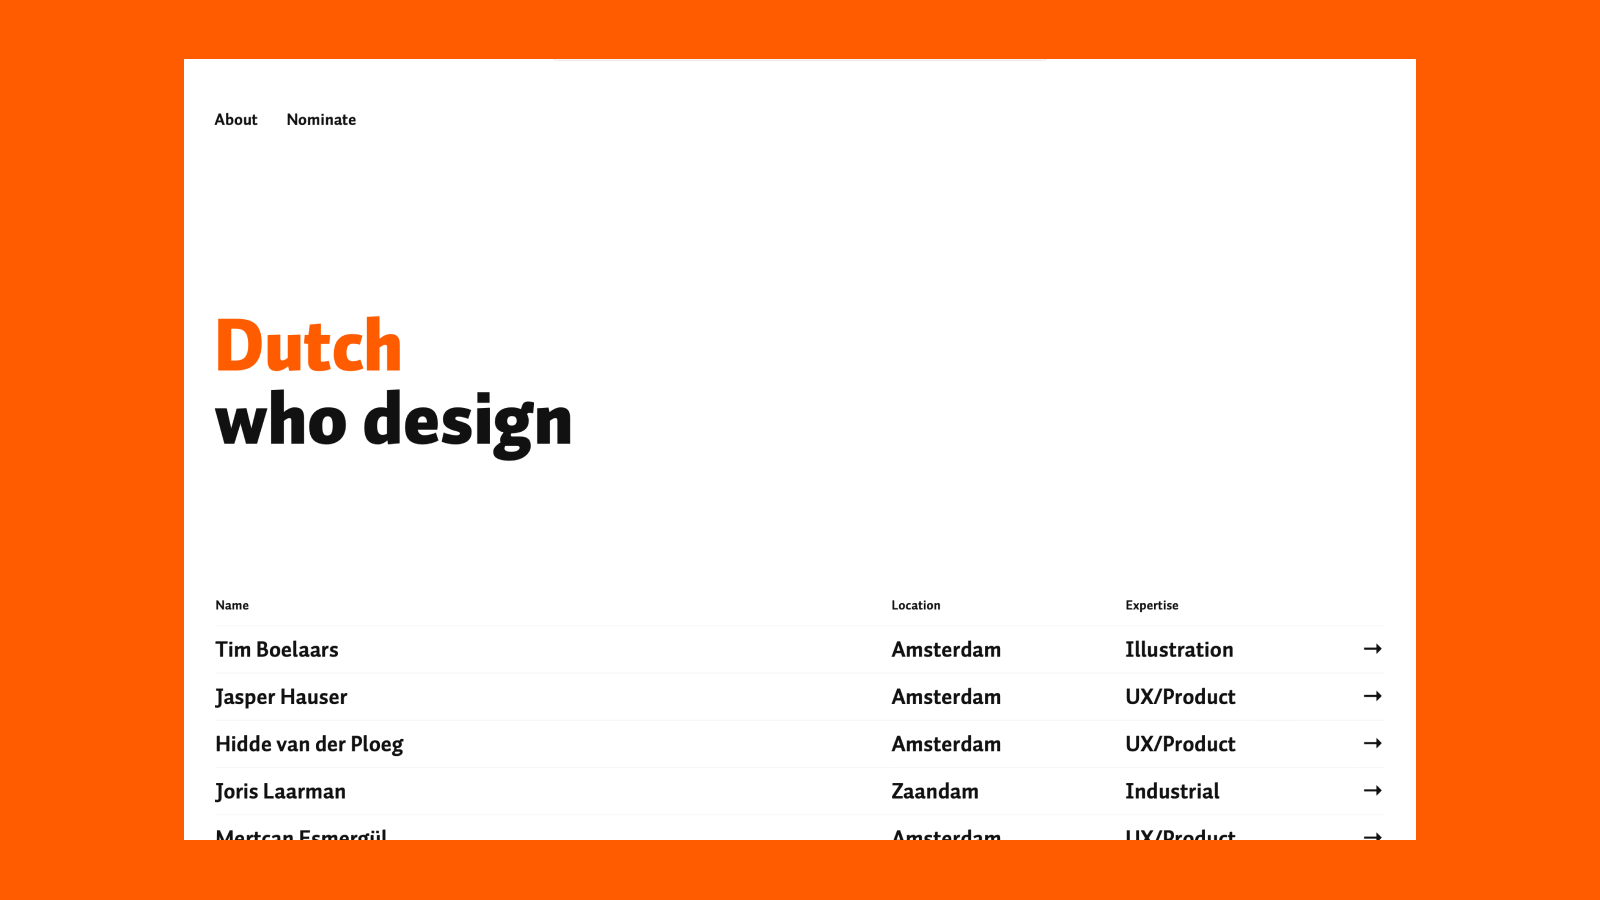
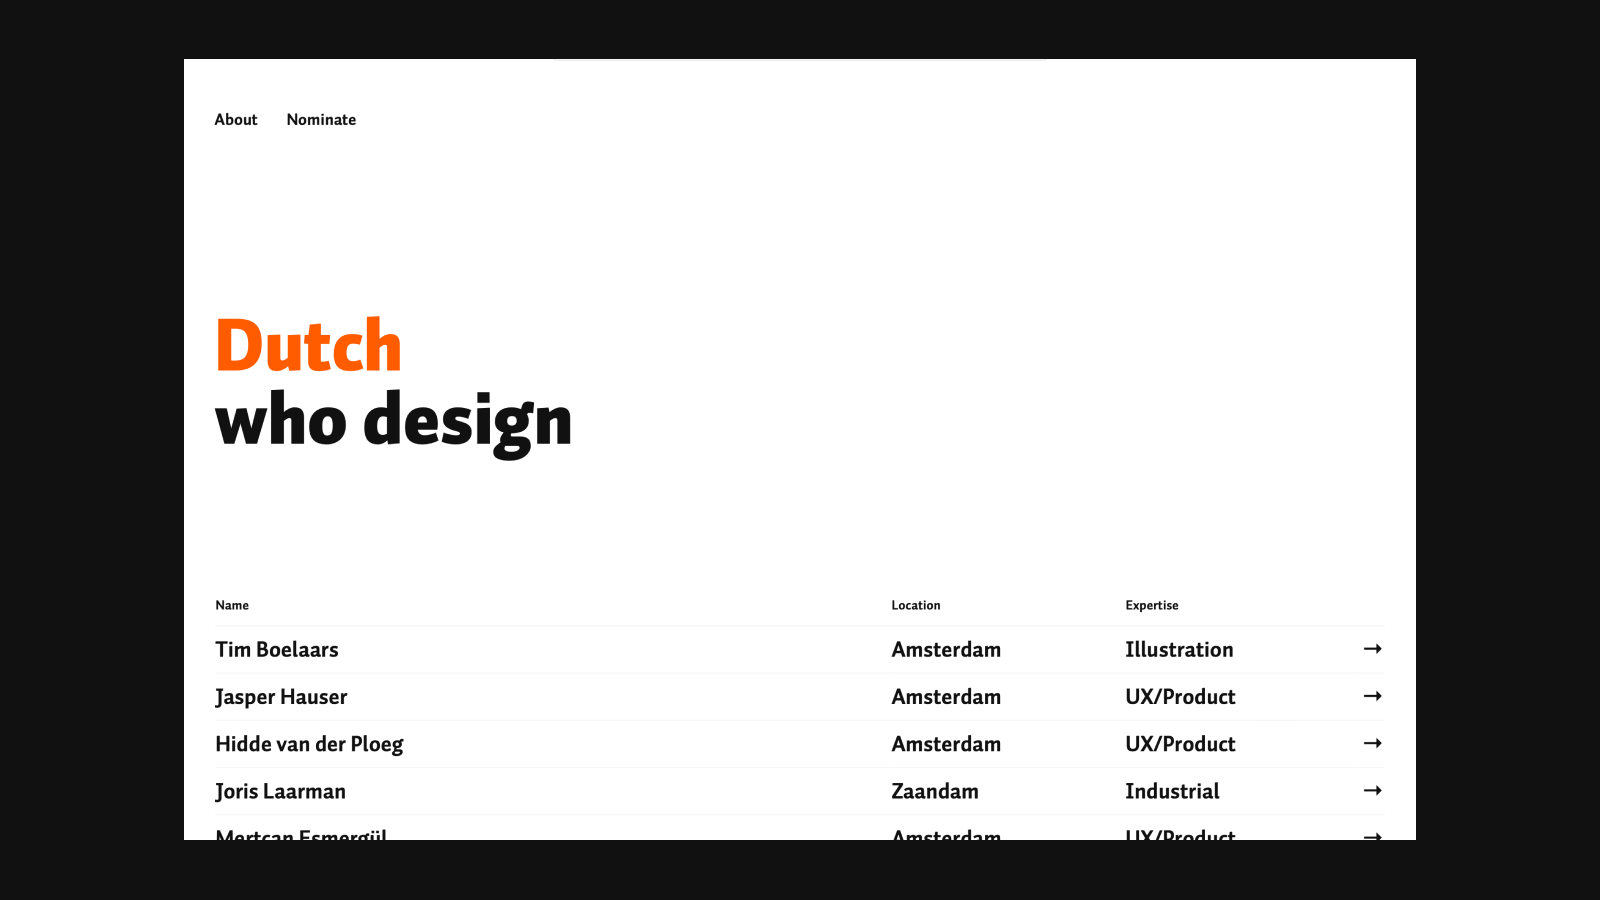
Fixed email and about link

diff --git a/pages/about.js b/pages/about.js
@@ -203,7 +203,7 @@ export default function Home({ designers }) {
           <h3>How can I remove my name?</h3>
           <p>
             If you’ve been added to the directory and would like to opt-out or
-            make an edit to your profile, please send us a <a className="link" href="mailto:hello@dannyruchtie.com">message</a>
+            make an edit to your profile, please send us a <a className="link" href="mailto:hello@dutchwho.design">message</a>
           </p>
           <h3>Why is my nomination not showing?</h3>
           <p>

diff --git a/assets/styles/modernism.css b/assets/styles/modernism.css
@@ -275,6 +275,9 @@ a.link:after {
     letter-spacing: -0.02em;     
   }
 
+  svg{
+    fill:#fff;
+  }
 
 
   .dn {
@@ -311,6 +314,9 @@ a.link:after {
   background: #111;
   color: rgba(255,255,255,0.8);  
   letter-spacing: .3px;
+  }
+  svg{
+    fill:#111;
   }
 
 
